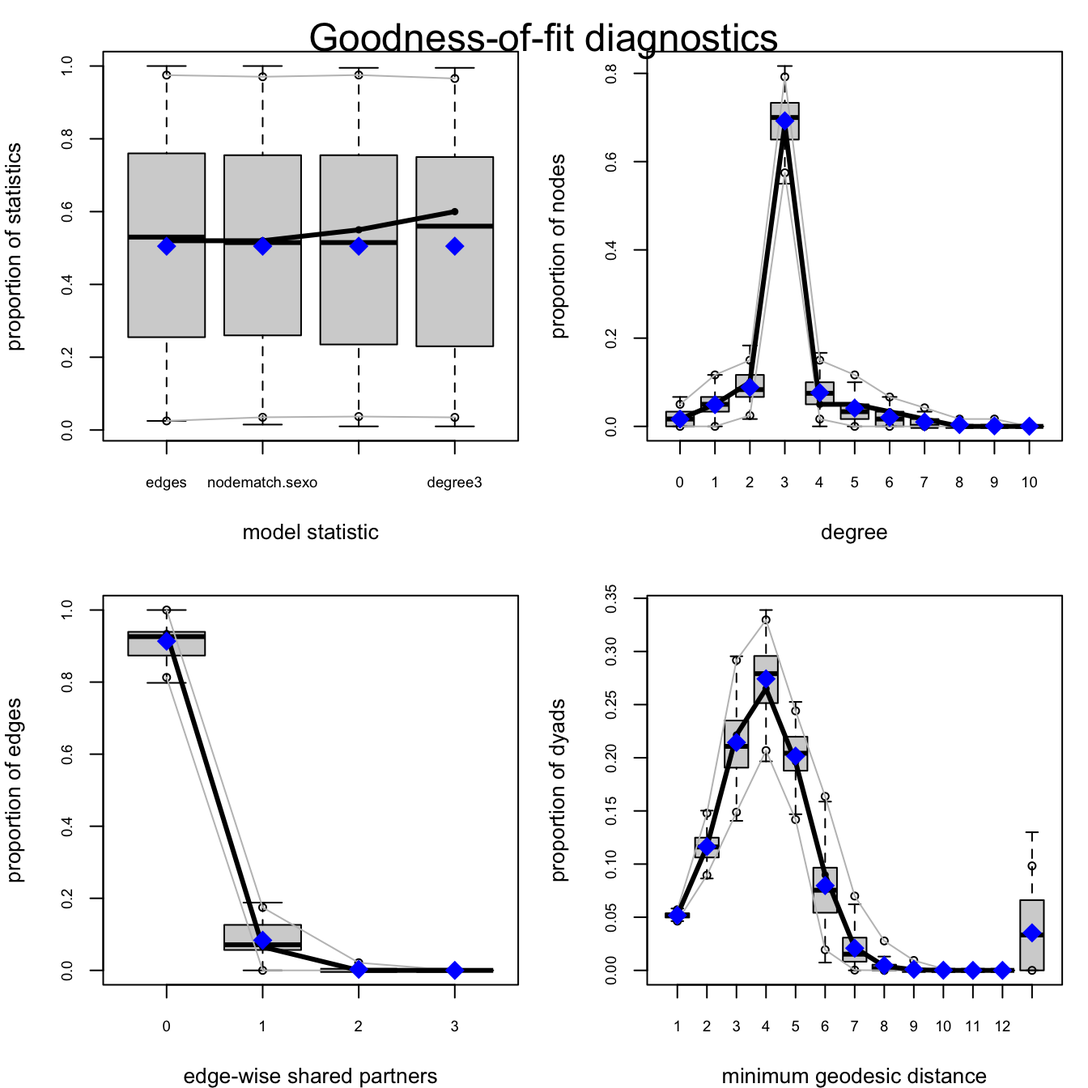
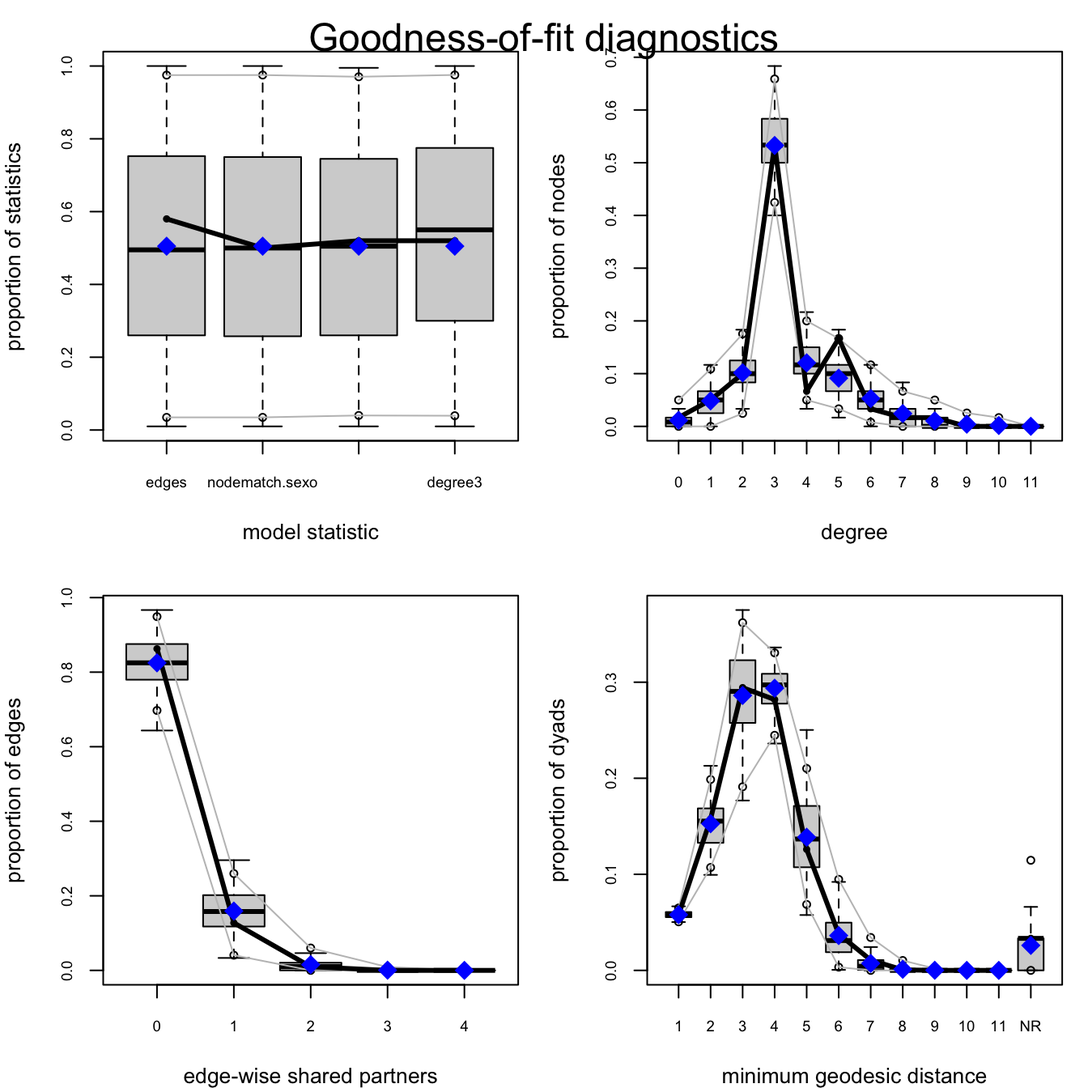
Renderiza el libro con el experimento moderado

diff --git a/docs/04-inferencia-qap-y-ergm.html b/docs/04-inferencia-qap-y-ergm.html
@@ -406,7 +406,7 @@ window.Quarto = {
   <li><a href="#m3-gwesp" id="toc-m3-gwesp" class="nav-link" data-scroll-target="#m3-gwesp"><span class="header-section-number">6.6</span> M3 — <code>+ gwesp</code></a></li>
   <li><a href="#resumen-modelos" id="toc-resumen-modelos" class="nav-link" data-scroll-target="#resumen-modelos"><span class="header-section-number">6.7</span> Resumen modelos</a>
   <ul class="collapse">
-  <li><a href="#la-fábrica-a-la-vista" id="toc-la-fábrica-a-la-vista" class="nav-link" data-scroll-target="#la-fábrica-a-la-vista"><span class="header-section-number">6.7.1</span> La fábrica, a la vista</a></li>
+  <li><a href="#cómo-se-fabricó-esta-red" id="toc-cómo-se-fabricó-esta-red" class="nav-link" data-scroll-target="#cómo-se-fabricó-esta-red"><span class="header-section-number">6.7.1</span> Cómo se fabricó esta red</a></li>
   </ul></li>
   <li><a href="#gof-el-modelo-fabrica-redes-creíbles" id="toc-gof-el-modelo-fabrica-redes-creíbles" class="nav-link" data-scroll-target="#gof-el-modelo-fabrica-redes-creíbles"><span class="header-section-number">6.8</span> GOF — ¿El modelo fabrica redes creíbles?</a></li>
   <li><a href="#gof-como-detector-de-términos-ausentes" id="toc-gof-como-detector-de-términos-ausentes" class="nav-link" data-scroll-target="#gof-como-detector-de-términos-ausentes"><span class="header-section-number">6.9</span> GOF como detector de términos ausentes</a></li>
@@ -494,9 +494,9 @@ window.Quarto = {
 <span id="cb3-8"><a href="#cb3-8" aria-hidden="true" tabindex="-1"></a>                               <span class="at">vertices =</span> enc[, <span class="fu">c</span>(<span class="st">"nombre"</span>,<span class="st">"sexo"</span>,<span class="st">"edad"</span>,<span class="st">"disciplina"</span>)])</span>
 <span id="cb3-9"><a href="#cb3-9" aria-hidden="true" tabindex="-1"></a>red_i</span></code></pre></div><button title="Copiar al portapapeles" class="code-copy-button"><i class="bi"></i></button></div>
 <div class="cell-output cell-output-stdout">
-<pre><code>IGRAPH b6d85eb DN-- 30 149 -- 
+<pre><code>IGRAPH be8f2eb DN-- 30 149 -- 
 + attr: name (v/c), sexo (v/c), edad (v/n), disciplina (v/c)
-+ edges from b6d85eb (vertex names):
++ edges from be8f2eb (vertex names):
  [1] Amanda Rojas -&gt;Karin Morales   Amanda Rojas -&gt;Lucas Paredes  
  [3] Bastian Soto -&gt;Javier Espinoza Bastian Soto -&gt;Lucas Paredes  
  [5] Bastian Soto -&gt;Pablo Guzman    Bastian Soto -&gt;Valentina Cruz 
@@ -1036,9 +1036,14 @@ Log Likelihood        -398.36      -365.48      -330.09      -330.38
 <li>La reciprocidad y la homofilia disciplinar se mantienen firmes en cada peldaño;</li>
 <li>El AIC <strong>mejora hasta M2 y empeora en M3</strong> — agregar cierre no compra nada. El mejor modelo es el más simple que captura los mecanismos reales.</li>
 </ol>
-<section id="la-fábrica-a-la-vista" class="level3" data-number="6.7.1">
-<h3 data-number="6.7.1" class="anchored" data-anchor-id="la-fábrica-a-la-vista"><span class="header-section-number">6.7.1</span> La fábrica, a la vista</h3>
-<p>Estos datos son ficticios, y el motor que los cró usó tres cosas: 1. nominaciones <strong>fuertemente</strong> sesgadas hacia la misma disciplina (peso <code>4</code> por compartir disciplina), 2. <strong>levemente</strong> sesgadas hacia el mismo sexo (peso <code>1.5</code> por compartir sexo), y 3. una dosis de reciprocidad (probabilidad de <code>0.35</code> de devolver cada nominación).</p>
+<section id="cómo-se-fabricó-esta-red" class="level3" data-number="6.7.1">
+<h3 data-number="6.7.1" class="anchored" data-anchor-id="cómo-se-fabricó-esta-red"><span class="header-section-number">6.7.1</span> Cómo se fabricó esta red</h3>
+<p>Estos datos son ficticios, y el motor que los cró usó tres cosas:</p>
+<ol type="1">
+<li>nominaciones <strong>fuertemente</strong> sesgadas hacia la misma disciplina (peso <code>4</code> por compartir disciplina),</li>
+<li><strong>levemente</strong> sesgadas hacia el mismo sexo (peso <code>1.5</code> por compartir sexo), y</li>
+<li>una dosis de reciprocidad (probabilidad de <code>0.35</code> de devolver cada nominación).</li>
+</ol>
 <div class="cell">
 <div class="code-copy-outer-scaffold"><div class="sourceCode cell-code" id="cb46"><pre class="sourceCode r code-with-copy"><code class="sourceCode r"><span id="cb46-1"><a href="#cb46-1" aria-hidden="true" tabindex="-1"></a><span class="fu">set.seed</span>(<span class="dv">2026</span>)</span>
 <span id="cb46-2"><a href="#cb46-2" aria-hidden="true" tabindex="-1"></a>nombres <span class="ot">&lt;-</span> <span class="fu">c</span>(<span class="st">"Amanda Rojas"</span>,<span class="st">"Bastian Soto"</span>,<span class="st">"Carla Munoz"</span>,<span class="st">"Diego Herrera"</span>,<span class="st">"Elisa Fuentes"</span>,</span>
@@ -1137,8 +1142,21 @@ Figura&nbsp;6.1: Bondad de ajuste de M2: la línea negra (red observada) debe ca
 </div>
 </div>
 </div>
-<p>Si la línea observada se escapa sistemáticamente de las cajas en algún panel, el modelo está ciego a algo — y ese panel te dice qué término considerar.</p>
+<p>Si la línea observada se escapa sistemáticamente de las cajas en algún panel, el modelo está ciego a algo.</p>
 <p><em>pregunta 10</em></p>
+<div class="callout callout-style-default callout-note callout-titled">
+<div class="callout-header d-flex align-content-center">
+<div class="callout-icon-container">
+<i class="callout-icon"></i>
+</div>
+<div class="callout-title-container flex-fill">
+<span class="screen-reader-only">Nota</span>Para jugar
+</div>
+</div>
+<div class="callout-body-container callout-body">
+<p>Corre <code>ergm::mcmc.diagnostics(m2)</code>: las cadenas deben verse como ruido sin tendencia. Así se chequea que la maquinaria de simulación convergió — es el equivalente, en el mundo de la simulación, a revisar los residuos de una regresión.</p>
+</div>
+</div>
 </section>
 <section id="gof-como-detector-de-términos-ausentes" class="level2" data-number="6.9">
 <h2 data-number="6.9" class="anchored" data-anchor-id="gof-como-detector-de-términos-ausentes"><span class="header-section-number">6.9</span> GOF como detector de términos ausentes</h2>
@@ -1152,17 +1170,16 @@ Figura&nbsp;6.1: Bondad de ajuste de M2: la línea negra (red observada) debe ca
 <span id="cb49-6"><a href="#cb49-6" aria-hidden="true" tabindex="-1"></a></span>
 <span id="cb49-7"><a href="#cb49-7" aria-hidden="true" tabindex="-1"></a>red_exp <span class="ot">&lt;-</span> <span class="fu">simulate</span>(</span>
 <span id="cb49-8"><a href="#cb49-8" aria-hidden="true" tabindex="-1"></a>  base <span class="sc">~</span> edges <span class="sc">+</span> <span class="fu">nodematch</span>(<span class="st">"sexo"</span>) <span class="sc">+</span> <span class="fu">nodematch</span>(<span class="st">"disciplina"</span>) <span class="sc">+</span> <span class="fu">degree</span>(<span class="dv">3</span>),</span>
-<span id="cb49-9"><a href="#cb49-9" aria-hidden="true" tabindex="-1"></a>  <span class="at">coef =</span> <span class="fu">c</span>(<span class="sc">-</span><span class="fl">3.2</span>, <span class="fl">0.4</span>, <span class="fl">1.2</span>, <span class="fl">2.2</span>),   <span class="co"># &lt;- las cuatro perillas de fábrica</span></span>
+<span id="cb49-9"><a href="#cb49-9" aria-hidden="true" tabindex="-1"></a>  <span class="at">coef =</span> <span class="fu">c</span>(<span class="sc">-</span><span class="fl">3.2</span>, <span class="fl">0.4</span>, <span class="fl">1.2</span>, <span class="fl">1.0</span>),   <span class="co"># &lt;- las cuatro perillas de fábrica</span></span>
 <span id="cb49-10"><a href="#cb49-10" aria-hidden="true" tabindex="-1"></a>  <span class="at">seed =</span> <span class="dv">404</span></span>
 <span id="cb49-11"><a href="#cb49-11" aria-hidden="true" tabindex="-1"></a>)</span>
 <span id="cb49-12"><a href="#cb49-12" aria-hidden="true" tabindex="-1"></a><span class="fu">summary</span>(red_exp <span class="sc">~</span> <span class="fu">degree</span>(<span class="dv">0</span><span class="sc">:</span><span class="dv">8</span>))</span></code></pre></div><button title="Copiar al portapapeles" class="code-copy-button"><i class="bi"></i></button></div>
 <div class="cell-output cell-output-stdout">
 <pre><code>degree0 degree1 degree2 degree3 degree4 degree5 degree6 degree7 degree8 
-      1       3       6      41       3       3       2       1       0 </code></pre>
+      1       3       6      32       4      10       2       1       1 </code></pre>
 </div>
 </div>
-<p>41 de los 60 nodos tienen grado 3: una campana con una aguja clavada en el 3.</p>
-<p>Ahora ajustemos un modelo <strong>razonable pero incompleto</strong>: solo las dos homofilias. Es el tipo de modelo que uno escribiría de buena fe — de hecho, es el mismo tipo de modelo que ajustamos para la encuesta:</p>
+<p>32 de los 60 nodos tienen grado 3 — más del doble de los que habría sin ese ingrediente. No es una aguja absurda: es una joroba, del tipo que uno encuentra en redes reales (piensa en un reglamento que obliga a formar equipos de cuatro). Ahora ajustemos un modelo razonable pero con homofilias:</p>
 <div class="cell">
 <div class="code-copy-outer-scaffold"><div class="sourceCode cell-code" id="cb51"><pre class="sourceCode r code-with-copy"><code class="sourceCode r"><span id="cb51-1"><a href="#cb51-1" aria-hidden="true" tabindex="-1"></a>m_hom <span class="ot">&lt;-</span> ergm<span class="sc">::</span><span class="fu">ergm</span>(red_exp <span class="sc">~</span> edges <span class="sc">+</span> <span class="fu">nodematch</span>(<span class="st">"sexo"</span>) <span class="sc">+</span> <span class="fu">nodematch</span>(<span class="st">"disciplina"</span>))</span></code></pre></div><button title="Copiar al portapapeles" class="code-copy-button"><i class="bi"></i></button></div>
 </div>
@@ -1170,25 +1187,13 @@ Figura&nbsp;6.1: Bondad de ajuste de M2: la línea negra (red observada) debe ca
 <div class="code-copy-outer-scaffold"><div class="sourceCode cell-code" id="cb52"><pre class="sourceCode r code-with-copy"><code class="sourceCode r"><span id="cb52-1"><a href="#cb52-1" aria-hidden="true" tabindex="-1"></a><span class="fu">round</span>(<span class="fu">coef</span>(m_hom), <span class="dv">2</span>)</span></code></pre></div><button title="Copiar al portapapeles" class="code-copy-button"><i class="bi"></i></button></div>
 <div class="cell-output cell-output-stdout">
 <pre><code>               edges       nodematch.sexo nodematch.disciplina 
-               -3.56                 0.56                 0.83 </code></pre>
+               -4.02                 0.87                 1.50 </code></pre>
 </div>
 </div>
-<p>Los coeficientes se ven <strong>bien</strong>: recupera ambas homofilias con los signos correctos. Un analista apurado se quedaría aquí. Pero pidamos el GOF completo:</p>
 <div class="cell">
 <div class="code-copy-outer-scaffold"><div class="sourceCode cell-code" id="cb54"><pre class="sourceCode r code-with-copy"><code class="sourceCode r"><span id="cb54-1"><a href="#cb54-1" aria-hidden="true" tabindex="-1"></a>gof_hom <span class="ot">&lt;-</span> ergm<span class="sc">::</span><span class="fu">gof</span>(m_hom, <span class="at">control =</span> ergm<span class="sc">::</span><span class="fu">control.gof.ergm</span>(<span class="at">seed =</span> <span class="dv">404</span>))</span>
 <span id="cb54-2"><a href="#cb54-2" aria-hidden="true" tabindex="-1"></a><span class="fu">par</span>(<span class="at">mfrow =</span> <span class="fu">c</span>(<span class="dv">2</span>, <span class="dv">2</span>), <span class="at">mar =</span> <span class="fu">c</span>(<span class="dv">4</span>, <span class="dv">4</span>, <span class="dv">2</span>, <span class="dv">1</span>))</span>
-<span id="cb54-3"><a href="#cb54-3" aria-hidden="true" tabindex="-1"></a><span class="fu">plot</span>(gof_hom)</span>
-<span id="cb54-4"><a href="#cb54-4" aria-hidden="true" tabindex="-1"></a><span class="fu">round</span>(gof_hom<span class="sc">$</span>pval.deg[<span class="dv">1</span><span class="sc">:</span><span class="dv">7</span>, ], <span class="dv">2</span>)</span></code></pre></div><button title="Copiar al portapapeles" class="code-copy-button"><i class="bi"></i></button></div>
-<div class="cell-output cell-output-stdout">
-<pre><code>  obs min  mean max MC p-value
-0   1   0  2.51  11       0.68
-1   3   2  8.18  16       0.14
-2   6   5 13.41  25       0.04
-3  41   5 13.62  21       0.00
-4   3   3 10.87  18       0.02
-5   3   0  6.47  15       0.30
-6   2   0  3.08   7       0.98</code></pre>
-</div>
+<span id="cb54-3"><a href="#cb54-3" aria-hidden="true" tabindex="-1"></a><span class="fu">plot</span>(gof_hom)</span></code></pre></div><button title="Copiar al portapapeles" class="code-copy-button"><i class="bi"></i></button></div>
 <div class="cell-output-display">
 <div id="fig-gof-mal" class="quarto-float quarto-figure quarto-figure-center anchored">
 <figure class="quarto-float quarto-float-fig figure">
@@ -1196,41 +1201,30 @@ Figura&nbsp;6.1: Bondad de ajuste de M2: la línea negra (red observada) debe ca
 <img src="04-inferencia-qap-y-ergm_files/figure-html/fig-gof-mal-1.png" class="img-fluid figure-img" width="672">
 </div>
 <figcaption class="quarto-float-caption-bottom quarto-float-caption quarto-float-fig" id="fig-gof-mal-caption-0ceaefa1-69ba-4598-a22c-09a6ac19f8ca">
-Figura&nbsp;6.2: GOF del modelo de homofilia: razonable en distancias y socios compartidos… y gritando exactamente en el grado 3 (y en sus vecinos, 2 y 4).
+Figura&nbsp;6.2: GOF del modelo de homofilia: razonable en distancias y socios compartidos… y gritando exactamente en el grado 3 (y en su vecino, el 4).
 </figcaption>
 </figure>
 </div>
 </div>
 </div>
-<p>Ahí está la falla: en el grado 3 observamos <strong>41</strong> nodos y el modelo espera <strong>~14</strong> (p = 0.00). Y como espejo, los grados vecinos (2 y 4) también se salen — el exceso de nodos en 3 se los robó. El GOF no dijo “algo anda mal”: dijo <strong>dónde</strong>. Agreguemos el término que falta y repitamos:</p>
+<p>Ahí está la falla: en el grado 3 observamos <strong>32</strong> nodos y el modelo espera <strong>~13</strong> (p = 0.00). Y como espejo, el grado 4 también se sale: los nodos que se acumularon en 3 se los robó a sus vecinos. El GOF no dijo “algo anda mal”: dijo <strong>dónde</strong>. Agreguemos el término que falta y repitamos:</p>
 <div class="cell">
-<div class="code-copy-outer-scaffold"><div class="sourceCode cell-code" id="cb56"><pre class="sourceCode r code-with-copy"><code class="sourceCode r"><span id="cb56-1"><a href="#cb56-1" aria-hidden="true" tabindex="-1"></a>m_com <span class="ot">&lt;-</span> ergm<span class="sc">::</span><span class="fu">ergm</span>(red_exp <span class="sc">~</span> edges <span class="sc">+</span> <span class="fu">nodematch</span>(<span class="st">"sexo"</span>) <span class="sc">+</span> <span class="fu">nodematch</span>(<span class="st">"disciplina"</span>) <span class="sc">+</span> <span class="fu">degree</span>(<span class="dv">3</span>),</span>
-<span id="cb56-2"><a href="#cb56-2" aria-hidden="true" tabindex="-1"></a>                    <span class="at">control =</span> ergm<span class="sc">::</span><span class="fu">control.ergm</span>(<span class="at">seed =</span> <span class="dv">404</span>))</span></code></pre></div><button title="Copiar al portapapeles" class="code-copy-button"><i class="bi"></i></button></div>
+<div class="code-copy-outer-scaffold"><div class="sourceCode cell-code" id="cb55"><pre class="sourceCode r code-with-copy"><code class="sourceCode r"><span id="cb55-1"><a href="#cb55-1" aria-hidden="true" tabindex="-1"></a>m_com <span class="ot">&lt;-</span> ergm<span class="sc">::</span><span class="fu">ergm</span>(red_exp <span class="sc">~</span> edges <span class="sc">+</span> <span class="fu">nodematch</span>(<span class="st">"sexo"</span>) <span class="sc">+</span> <span class="fu">nodematch</span>(<span class="st">"disciplina"</span>) <span class="sc">+</span> <span class="fu">degree</span>(<span class="dv">3</span>),</span>
+<span id="cb55-2"><a href="#cb55-2" aria-hidden="true" tabindex="-1"></a>                    <span class="at">control =</span> ergm<span class="sc">::</span><span class="fu">control.ergm</span>(<span class="at">seed =</span> <span class="dv">404</span>))</span></code></pre></div><button title="Copiar al portapapeles" class="code-copy-button"><i class="bi"></i></button></div>
 </div>
 <div class="cell">
-<div class="code-copy-outer-scaffold"><div class="sourceCode cell-code" id="cb57"><pre class="sourceCode r code-with-copy"><code class="sourceCode r"><span id="cb57-1"><a href="#cb57-1" aria-hidden="true" tabindex="-1"></a><span class="fu">round</span>(<span class="fu">coef</span>(m_com), <span class="dv">2</span>)</span></code></pre></div><button title="Copiar al portapapeles" class="code-copy-button"><i class="bi"></i></button></div>
+<div class="code-copy-outer-scaffold"><div class="sourceCode cell-code" id="cb56"><pre class="sourceCode r code-with-copy"><code class="sourceCode r"><span id="cb56-1"><a href="#cb56-1" aria-hidden="true" tabindex="-1"></a><span class="fu">round</span>(<span class="fu">coef</span>(m_com), <span class="dv">2</span>)</span></code></pre></div><button title="Copiar al portapapeles" class="code-copy-button"><i class="bi"></i></button></div>
 <div class="cell-output cell-output-stdout">
 <pre><code>               edges       nodematch.sexo nodematch.disciplina 
-               -3.47                 0.56                 0.80 
+               -3.84                 0.84                 1.50 
              degree3 
-                1.98 </code></pre>
+                1.40 </code></pre>
 </div>
 </div>
 <div class="cell">
-<div class="code-copy-outer-scaffold"><div class="sourceCode cell-code" id="cb59"><pre class="sourceCode r code-with-copy"><code class="sourceCode r"><span id="cb59-1"><a href="#cb59-1" aria-hidden="true" tabindex="-1"></a>gof_com <span class="ot">&lt;-</span> ergm<span class="sc">::</span><span class="fu">gof</span>(m_com, <span class="at">control =</span> ergm<span class="sc">::</span><span class="fu">control.gof.ergm</span>(<span class="at">seed =</span> <span class="dv">404</span>))</span>
-<span id="cb59-2"><a href="#cb59-2" aria-hidden="true" tabindex="-1"></a><span class="fu">par</span>(<span class="at">mfrow =</span> <span class="fu">c</span>(<span class="dv">2</span>, <span class="dv">2</span>), <span class="at">mar =</span> <span class="fu">c</span>(<span class="dv">4</span>, <span class="dv">4</span>, <span class="dv">2</span>, <span class="dv">1</span>))</span>
-<span id="cb59-3"><a href="#cb59-3" aria-hidden="true" tabindex="-1"></a><span class="fu">plot</span>(gof_com)</span>
-<span id="cb59-4"><a href="#cb59-4" aria-hidden="true" tabindex="-1"></a><span class="fu">round</span>(gof_com<span class="sc">$</span>pval.deg[<span class="dv">1</span><span class="sc">:</span><span class="dv">7</span>, ], <span class="dv">2</span>)</span></code></pre></div><button title="Copiar al portapapeles" class="code-copy-button"><i class="bi"></i></button></div>
-<div class="cell-output cell-output-stdout">
-<pre><code>  obs min  mean max MC p-value
-0   1   0  0.99   4       1.00
-1   3   0  2.95   7       1.00
-2   6   1  5.31  13       0.76
-3  41  31 41.54  49       0.96
-4   3   0  4.58  10       0.58
-5   3   0  2.48   9       0.88
-6   2   0  1.22   4       0.76</code></pre>
-</div>
+<div class="code-copy-outer-scaffold"><div class="sourceCode cell-code" id="cb58"><pre class="sourceCode r code-with-copy"><code class="sourceCode r"><span id="cb58-1"><a href="#cb58-1" aria-hidden="true" tabindex="-1"></a>gof_com <span class="ot">&lt;-</span> ergm<span class="sc">::</span><span class="fu">gof</span>(m_com, <span class="at">control =</span> ergm<span class="sc">::</span><span class="fu">control.gof.ergm</span>(<span class="at">seed =</span> <span class="dv">404</span>))</span>
+<span id="cb58-2"><a href="#cb58-2" aria-hidden="true" tabindex="-1"></a><span class="fu">par</span>(<span class="at">mfrow =</span> <span class="fu">c</span>(<span class="dv">2</span>, <span class="dv">2</span>), <span class="at">mar =</span> <span class="fu">c</span>(<span class="dv">4</span>, <span class="dv">4</span>, <span class="dv">2</span>, <span class="dv">1</span>))</span>
+<span id="cb58-3"><a href="#cb58-3" aria-hidden="true" tabindex="-1"></a><span class="fu">plot</span>(gof_com)</span></code></pre></div><button title="Copiar al portapapeles" class="code-copy-button"><i class="bi"></i></button></div>
 <div class="cell-output-display">
 <div id="fig-gof-bien" class="quarto-float quarto-figure quarto-figure-center anchored">
 <figure class="quarto-float quarto-float-fig figure">
@@ -1244,28 +1238,38 @@ Figura&nbsp;6.3: GOF del modelo corregido: la aguja del grado 3 quedó capturada
 </div>
 </div>
 </div>
-<p>La fila del grado 3 pasó de p = 0.00 a p ≈ 0.96: el modelo ahora espera ~41 nodos de grado 3, porque se lo pedimos. Y fíjate en dos detalles:</p>
+<p>La fila del grado 3 pasó de p = 0.00 a p = 1.00: el modelo ahora espera ~32 nodos de grado 3, porque se lo pedimos. Y fíjate en dos detalles:</p>
 <ul>
-<li><strong>Los coeficientes de homofilia casi no se movieron</strong> (≈ 0.56 y ≈ 0.80 en ambos modelos). El modelo incompleto no estaba <em>equivocado</em> sobre la homofilia: estaba <strong>ciego</strong> a otra cosa. Por eso mirar solo los coeficientes no basta.</li>
-<li><strong>El AIC baja de ~708 a ~655</strong>: el término que el GOF nos señaló era real, no un capricho.</li>
+<li><strong>Los coeficientes de homofilia casi no se movieron</strong> (0.87 → 0.84 y 1.50 → 1.50). El modelo incompleto no estaba <em>equivocado</em> sobre la homofilia: estaba <strong>ciego</strong> a otra cosa. Por eso mirar solo los coeficientes no basta.</li>
+<li><strong>El AIC baja de ~720 a ~695</strong>: el término que el GOF nos señaló era real, no un capricho.</li>
 </ul>
-<p><strong>Moraleja: el GOF es un detector de términos ausentes.</strong> Cuando un panel se escapa, el nombre del panel te dice qué hipótesis de formación te faltó considerar.</p>
 </section>
 <section id="fabricación-de-redes-equivalentes" class="level2" data-number="6.10">
 <h2 data-number="6.10" class="anchored" data-anchor-id="fabricación-de-redes-equivalentes"><span class="header-section-number">6.10</span> Fabricación de redes equivalentes</h2>
 <p>La prueba final es visual: si el modelo entendió la red, debería poder <strong>fabricar redes hermanas</strong> que se le parezcan:</p>
+<p>Primero le pedimos al modelo que genere dos redes nuevas:</p>
 <div class="cell">
-<div class="code-copy-outer-scaffold"><div class="sourceCode cell-code" id="cb61"><pre class="sourceCode r code-with-copy"><code class="sourceCode r"><span id="cb61-1"><a href="#cb61-1" aria-hidden="true" tabindex="-1"></a>sims <span class="ot">&lt;-</span> <span class="fu">simulate</span>(m2, <span class="at">nsim =</span> <span class="dv">2</span>, <span class="at">seed =</span> <span class="dv">2026</span>)   <span class="co"># genérica de stats; despacha al método de ergm</span></span>
-<span id="cb61-2"><a href="#cb61-2" aria-hidden="true" tabindex="-1"></a><span class="fu">par</span>(<span class="at">mfrow =</span> <span class="fu">c</span>(<span class="dv">1</span>, <span class="dv">3</span>), <span class="at">mar =</span> <span class="fu">c</span>(<span class="dv">1</span>, <span class="dv">1</span>, <span class="dv">2</span>, <span class="dv">1</span>))</span>
-<span id="cb61-3"><a href="#cb61-3" aria-hidden="true" tabindex="-1"></a><span class="cf">for</span> (red_k <span class="cf">in</span> <span class="fu">list</span>(<span class="at">Observada =</span> red_i,</span>
-<span id="cb61-4"><a href="#cb61-4" aria-hidden="true" tabindex="-1"></a>                   <span class="st">`</span><span class="at">Simulada 1</span><span class="st">`</span> <span class="ot">=</span> <span class="fu">asIgraph</span>(sims[[<span class="dv">1</span>]]),</span>
-<span id="cb61-5"><a href="#cb61-5" aria-hidden="true" tabindex="-1"></a>                   <span class="st">`</span><span class="at">Simulada 2</span><span class="st">`</span> <span class="ot">=</span> <span class="fu">asIgraph</span>(sims[[<span class="dv">2</span>]]))) {</span>
-<span id="cb61-6"><a href="#cb61-6" aria-hidden="true" tabindex="-1"></a>  nombre_attr <span class="ot">&lt;-</span> <span class="cf">if</span> (<span class="st">"disciplina"</span> <span class="sc">%in%</span> <span class="fu">vertex_attr_names</span>(red_k)) <span class="st">"disciplina"</span> <span class="cf">else</span> <span class="cn">NULL</span></span>
-<span id="cb61-7"><a href="#cb61-7" aria-hidden="true" tabindex="-1"></a>  <span class="fu">plot</span>(red_k, <span class="at">vertex.color =</span> colores_disc[<span class="fu">vertex_attr</span>(red_k, <span class="st">"disciplina"</span>)],</span>
-<span id="cb61-8"><a href="#cb61-8" aria-hidden="true" tabindex="-1"></a>       <span class="at">vertex.size =</span> <span class="dv">9</span>, <span class="at">vertex.label =</span> <span class="cn">NA</span>,</span>
-<span id="cb61-9"><a href="#cb61-9" aria-hidden="true" tabindex="-1"></a>       <span class="at">edge.arrow.size =</span> <span class="fl">0.15</span>, <span class="at">edge.color =</span> <span class="st">"gray70"</span>)</span>
-<span id="cb61-10"><a href="#cb61-10" aria-hidden="true" tabindex="-1"></a>}</span>
-<span id="cb61-11"><a href="#cb61-11" aria-hidden="true" tabindex="-1"></a><span class="fu">title</span>(<span class="st">"Observada  |  Simulada 1  |  Simulada 2"</span>, <span class="at">outer =</span> <span class="cn">TRUE</span>, <span class="at">line =</span> <span class="sc">-</span><span class="fl">1.5</span>)</span></code></pre></div><button title="Copiar al portapapeles" class="code-copy-button"><i class="bi"></i></button></div>
+<div class="code-copy-outer-scaffold"><div class="sourceCode cell-code" id="cb59"><pre class="sourceCode r code-with-copy"><code class="sourceCode r"><span id="cb59-1"><a href="#cb59-1" aria-hidden="true" tabindex="-1"></a>sims <span class="ot">&lt;-</span> <span class="fu">simulate</span>(m2, <span class="at">nsim =</span> <span class="dv">2</span>, <span class="at">seed =</span> <span class="dv">2026</span>)   <span class="co"># genérica de stats; despacha al método de ergm</span></span>
+<span id="cb59-2"><a href="#cb59-2" aria-hidden="true" tabindex="-1"></a>sims</span></code></pre></div><button title="Copiar al portapapeles" class="code-copy-button"><i class="bi"></i></button></div>
+<div class="cell-output cell-output-stdout">
+<pre><code>List of  2  Networks
+Model: red_n ~ edges + mutual + nodematch("disciplina") + nodematch("sexo") 
+Reference: ~Bernoulli 
+Constraints: ~. ~. - observed </code></pre>
+</div>
+</div>
+<p>Y ahora las dibujamos junto a la original:</p>
+<div class="cell">
+<div class="code-copy-outer-scaffold"><div class="sourceCode cell-code" id="cb61"><pre class="sourceCode r code-with-copy"><code class="sourceCode r"><span id="cb61-1"><a href="#cb61-1" aria-hidden="true" tabindex="-1"></a><span class="fu">par</span>(<span class="at">mfrow =</span> <span class="fu">c</span>(<span class="dv">1</span>, <span class="dv">3</span>), <span class="at">mar =</span> <span class="fu">c</span>(<span class="dv">1</span>, <span class="dv">1</span>, <span class="dv">2</span>, <span class="dv">1</span>))</span>
+<span id="cb61-2"><a href="#cb61-2" aria-hidden="true" tabindex="-1"></a><span class="cf">for</span> (red_k <span class="cf">in</span> <span class="fu">list</span>(<span class="at">Observada =</span> red_i,</span>
+<span id="cb61-3"><a href="#cb61-3" aria-hidden="true" tabindex="-1"></a>                   <span class="st">`</span><span class="at">Simulada 1</span><span class="st">`</span> <span class="ot">=</span> <span class="fu">asIgraph</span>(sims[[<span class="dv">1</span>]]),</span>
+<span id="cb61-4"><a href="#cb61-4" aria-hidden="true" tabindex="-1"></a>                   <span class="st">`</span><span class="at">Simulada 2</span><span class="st">`</span> <span class="ot">=</span> <span class="fu">asIgraph</span>(sims[[<span class="dv">2</span>]]))) {</span>
+<span id="cb61-5"><a href="#cb61-5" aria-hidden="true" tabindex="-1"></a>  nombre_attr <span class="ot">&lt;-</span> <span class="cf">if</span> (<span class="st">"disciplina"</span> <span class="sc">%in%</span> <span class="fu">vertex_attr_names</span>(red_k)) <span class="st">"disciplina"</span> <span class="cf">else</span> <span class="cn">NULL</span></span>
+<span id="cb61-6"><a href="#cb61-6" aria-hidden="true" tabindex="-1"></a>  <span class="fu">plot</span>(red_k, <span class="at">vertex.color =</span> colores_disc[<span class="fu">vertex_attr</span>(red_k, <span class="st">"disciplina"</span>)],</span>
+<span id="cb61-7"><a href="#cb61-7" aria-hidden="true" tabindex="-1"></a>       <span class="at">vertex.size =</span> <span class="dv">9</span>, <span class="at">vertex.label =</span> <span class="cn">NA</span>,</span>
+<span id="cb61-8"><a href="#cb61-8" aria-hidden="true" tabindex="-1"></a>       <span class="at">edge.arrow.size =</span> <span class="fl">0.15</span>, <span class="at">edge.color =</span> <span class="st">"gray70"</span>)</span>
+<span id="cb61-9"><a href="#cb61-9" aria-hidden="true" tabindex="-1"></a>}</span>
+<span id="cb61-10"><a href="#cb61-10" aria-hidden="true" tabindex="-1"></a><span class="fu">title</span>(<span class="st">"Observada  |  Simulada 1  |  Simulada 2"</span>, <span class="at">outer =</span> <span class="cn">TRUE</span>, <span class="at">line =</span> <span class="sc">-</span><span class="fl">1.5</span>)</span></code></pre></div><button title="Copiar al portapapeles" class="code-copy-button"><i class="bi"></i></button></div>
 <div class="cell-output-display">
 <div id="fig-gemelas" class="quarto-float quarto-figure quarto-figure-center anchored">
 <figure class="quarto-float quarto-float-fig figure">
@@ -1277,19 +1281,6 @@ Figura&nbsp;6.4: La red observada y dos redes simuladas desde M2. No son idénti
 </figcaption>
 </figure>
 </div>
-</div>
-</div>
-<div class="callout callout-style-default callout-note callout-titled">
-<div class="callout-header d-flex align-content-center">
-<div class="callout-icon-container">
-<i class="callout-icon"></i>
-</div>
-<div class="callout-title-container flex-fill">
-<span class="screen-reader-only">Nota</span>Para jugar
-</div>
-</div>
-<div class="callout-body-container callout-body">
-<p>Corre <code>ergm::mcmc.diagnostics(m2)</code>: las cadenas deben verse como ruido sin tendencia. Así se chequea que la maquinaria de simulación convergió — es el equivalente, en el mundo de la simulación, a revisar los residuos de una regresión.</p>
 </div>
 </div>
 
